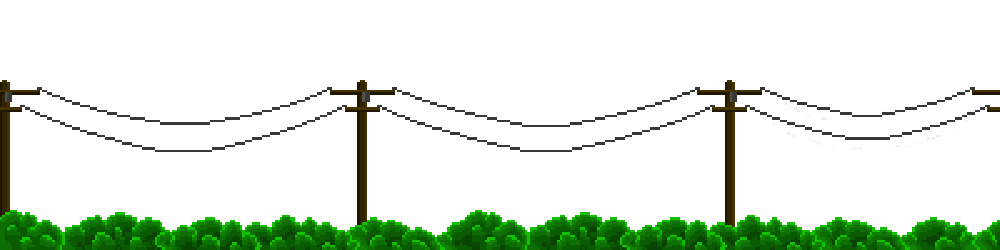
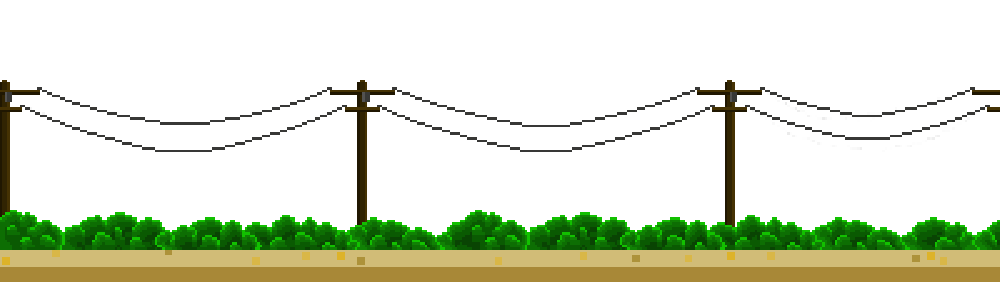
Classes can now be used to give paths different images.
Also fixed a SVG parser bug where it didn't store the last line.

diff --git a/BrokenBonez/app/src/main/java/com/dragonfruitstudios/brokenbonez/Game/LevelInfo.java b/BrokenBonez/app/src/main/java/com/dragonfruitstudios/brokenbonez/Game/LevelInfo.java
@@ -16,6 +16,7 @@ import junit.framework.Assert;
 
 import org.w3c.dom.Document;
 import org.w3c.dom.Element;
+import org.w3c.dom.NamedNodeMap;
 import org.w3c.dom.Node;
 import org.w3c.dom.NodeList;
 import org.xml.sax.SAXException;
@@ -23,8 +24,10 @@ import org.xml.sax.SAXException;
 import java.io.File;
 import java.io.IOException;
 import java.lang.reflect.Array;
+import java.security.InvalidParameterException;
 import java.util.ArrayList;
 import java.util.Arrays;
+import java.util.HashMap;
 
 import javax.xml.parsers.DocumentBuilder;
 import javax.xml.parsers.DocumentBuilderFactory;
@@ -39,6 +42,11 @@ public class LevelInfo {
     public String surfacePath; // Path to the image which is drawn for the bike to ride on.
     public String groundPath; // Path to the image which can be drawn below surface.
     public ArrayList<SolidLayer> solids;
+    // Specifies the assets to use for a specific solidLayer class.
+    private HashMap<String,SolidLayer.Info> slAssets;
+
+
+    public enum AssetType {Surface, Fill, Transparent}
 
     /**
      * This is a layer that the Bike will collide with (and ride over).
@@ -47,27 +55,13 @@ public class LevelInfo {
         // This maps directly to Polygon.lines and determines what image should be drawn over each
         // line.
         private ArrayList<AssetKey> assetKeys;
-        private String fillKey; // The key of the image used to fill the layer.
+        private String theClass;
 
         private SolidLayer(Polygon polygon) {
             super(polygon.getLines());
         }
 
-        public static SolidLayer createRect(VectorF pos, float width, float height,
-                                            String top, String left, String right, String bottom,
-                                            String fill) {
-            SolidLayer result = new SolidLayer(new Rect(pos, width, height));
-            result.assetKeys = new ArrayList<AssetKey>();
-            result.assetKeys.add(new AssetKey(top, 0, 0));
-            result.assetKeys.add(new AssetKey(left, 3, 3));
-            result.assetKeys.add(new AssetKey(right, 1, 1));
-            result.assetKeys.add(new AssetKey(bottom, 2, 2));
-            result.fillKey = fill;
-            return result;
-        }
-
-        public static SolidLayer createPolygon(ArrayList<Line> lines, AssetKey[] assetKeys,
-                                               String fillKey) {
+        public static SolidLayer createPolygon(ArrayList<Line> lines, AssetKey[] assetKeys) {
             SolidLayer result = new SolidLayer(new Polygon(lines));
             result.assetKeys = new ArrayList<AssetKey>();
             for (AssetKey ak : assetKeys) {
@@ -75,27 +69,43 @@ public class LevelInfo {
                     result.assetKeys.add(ak);
                 }
             }
-            result.fillKey = fillKey;
             return result;
         }
 
-        public String getAssetKey(int i) {
-            return assetKeys.get(i).key;
-        }
-
-        public String getFillKey() {
-            return fillKey;
+        public AssetType getAssetType(int i) {
+            return assetKeys.get(i).assetType;
         }
 
         static class AssetKey {
-            String key;
+            AssetType assetType;
             int indexStart;
             int indexEnd;
 
-            AssetKey(String key, int indexStart, int indexEnd) {
-                this.key = key;
+            AssetKey(AssetType assetType, int indexStart, int indexEnd) {
+                this.assetType = assetType;
                 this.indexStart = indexStart;
                 this.indexEnd = indexEnd;
+            }
+        }
+
+        /**
+         * Stores information about a specific SolidLayer class' asset keys.
+         *
+         * Note: This is just a simple class that stores some information about asset keys,
+         * hence its fields are public.
+         */
+        public static class Info {
+            public String theClass;
+            public String surfaceKey;
+            public String fillKey;
+
+            public VectorF surfaceOffset;
+
+            Info(String theClass, String surfaceKey, String fillKey) {
+                this.theClass = theClass;
+                this.surfaceKey = surfaceKey;
+                this.fillKey = fillKey;
+                surfaceOffset = new VectorF(0, 0);
             }
         }
     }
@@ -150,10 +160,11 @@ public class LevelInfo {
         this.groundPath = groundPath;
         this.layers = new ArrayList<Layer>();
         this.solids = new ArrayList<SolidLayer>();
+        this.slAssets = new HashMap<String,SolidLayer.Info>();
     }
 
     public void loadAssets(AssetLoader loader) {
-        loader.AddAssets(new String[] {getSurfaceKey()});
+        loader.AddAssets(new String[]{getSurfaceKey()});
         loader.AddAssets(new String[] {getGroundKey()});
         // Add the background layer's assets.
         for (Layer l : layers) {
@@ -163,15 +174,30 @@ public class LevelInfo {
         for (SolidLayer sl : solids) {
             // TODO: UGH. An `addAsset` method is desperately needed.
             for (SolidLayer.AssetKey ak : sl.assetKeys) {
-                if (!ak.key.equals(getTransparentKey())) {
-                    loader.AddAssets(new String[]{ak.key});
+                if (ak.assetType != AssetType.Transparent) {
+                    loader.AddAssets(new String[]{getSolidLayerKey(sl, ak.assetType)});
                 }
             }
         }
     }
 
+    public void addInfo(String theClass, String surfaceKey, String fillKey) {
+        slAssets.put(theClass, new SolidLayer.Info(theClass, surfaceKey, fillKey));
+    }
+
+    public void addInfo(String theClass, String surfaceKey, String fillKey,
+                        VectorF surfaceOffset) {
+        addInfo(theClass, surfaceKey, fillKey);
+        slAssets.get(theClass).surfaceOffset = surfaceOffset;
+    }
+
+
     private String getLevelPath() {
         return "levels/" + name + "/";
+    }
+
+    public String getImagePath(String name) {
+        return getLevelPath() + name;
     }
 
     public String getLayerKey(Layer layer) {
@@ -188,6 +214,27 @@ public class LevelInfo {
 
     public String getTransparentKey() {
         return "";
+    }
+
+    public String getSolidLayerKey(SolidLayer sl, AssetType assetType) {
+        if (!slAssets.containsKey(sl.theClass)) {
+            throw new RuntimeException("Couldn't find SL's class in LevelInfo's assets: " +
+                    sl.theClass);
+        }
+        switch (assetType) {
+            case Fill:
+                return slAssets.get(sl.theClass).fillKey;
+            case Surface:
+                return slAssets.get(sl.theClass).surfaceKey;
+            case Transparent:
+                return getTransparentKey();
+            default:
+                throw new InvalidParameterException("AssetType not implemented: " + assetType);
+        }
+    }
+
+    public SolidLayer.Info getSolidLayerInfo(SolidLayer sl) {
+        return slAssets.get(sl.theClass);
     }
 
     public float calcGroundHeight(AssetLoader loader, int height) {
@@ -215,7 +262,8 @@ public class LevelInfo {
     private ArrayList<Line> parsePath(String path, VectorF pos) {
         // Spec for 'C' here: https://www.w3.org/TR/SVG/paths.html#PathDataCubicBezierCommands
         // Only `curveto` is supported as that's all that GIMP generates.
-        // Yep, I wrote a custom parser for this.
+        // Yep, I know I probably could have found some library to parse the SVG for me, but
+        // parsing manually is more fun.
         ArrayList<Line> result = new ArrayList<>();
         int i = 0;
 
@@ -303,6 +351,14 @@ public class LevelInfo {
             i++;
         }
 
+        // Add the last line.
+        if (coords[0].length() > 0) {
+            VectorF end = new VectorF(Float.valueOf(coords[0]) + pos.x,
+                    Float.valueOf(coords[1]) + pos.y);
+            Assert.assertTrue("Found line which starts and ends in the same place.",
+                    end.subtracted(currentPoint).magnitude() != 0);
+            result.add(new Line(currentPoint.copy(), end));
+        }
         return result;
     }
 
@@ -324,11 +380,12 @@ public class LevelInfo {
             Element doc = dom.getDocumentElement();
             NodeList elements = doc.getElementsByTagName("path");
             for (int i = 0; i < elements.getLength(); i++) {
-                Node d = elements.item(i).getAttributes().getNamedItem("d");
+                NamedNodeMap attrs = elements.item(i).getAttributes();
+                Node d = attrs.getNamedItem("d");
                 ArrayList<Line> lines = parsePath(d.getNodeValue(), pos);
                 // Assume all the lines in path are surface paths.
-                SolidLayer.AssetKey surfaceKey = new SolidLayer.AssetKey(getSurfaceKey(), 0,
-                        lines.size()-1);
+                SolidLayer.AssetKey surfaceKey = new SolidLayer.AssetKey(
+                        AssetType.Surface, 0, lines.size()-1);
 
                 // TODO: Quick way to close the Polygon.
                 Line left = new Line(lines.get(0).getStart().copy(),
@@ -341,10 +398,14 @@ public class LevelInfo {
                 lines.add(left);
                 SolidLayer.AssetKey[] keys = new SolidLayer.AssetKey[] {
                         surfaceKey,
-                        new SolidLayer.AssetKey(getTransparentKey(), surfaceKey.indexEnd+1,
-                                surfaceKey.indexEnd+4)
+                        new SolidLayer.AssetKey(AssetType.Transparent,
+                                surfaceKey.indexEnd+1, surfaceKey.indexEnd+4)
                 };
-                solids.add(SolidLayer.createPolygon(lines, keys, getGroundKey()));
+                SolidLayer newLayer = SolidLayer.createPolygon(lines, keys);
+                solids.add(newLayer);
+
+                // Set the SolidLayer's id.
+                newLayer.theClass = attrs.getNamedItem("class").getNodeValue();
             }
         }
         catch (ParserConfigurationException | IOException | SAXException exc) {

diff --git a/BrokenBonez/app/src/main/java/com/dragonfruitstudios/brokenbonez/Gameplay/GameLevel.java b/BrokenBonez/app/src/main/java/com/dragonfruitstudios/brokenbonez/Gameplay/GameLevel.java
@@ -55,23 +55,14 @@ public class GameLevel extends Level {
         //info.layers.add(new LevelInfo.Layer("ground.png", 1f, 1f, 0f,
         //        GameView.ImageOrigin.BottomLeft));
 
-        //info.solids.add(LevelInfo.SolidLayer.createRect(new VectorF(0, 410), 200, 1000,
-        //        info.getSurfaceKey(), info.getTransparentKey(), info.getTransparentKey(),
-        //        info.getTransparentKey(), info.getGroundKey()));
-
+        // Load the SVG file which defines the level's geometry.
         info.loadSVG(state.getAssetLoader(), "level1.svg", new VectorF(0, 0));
 
-        /*ArrayList<Line> lines = new ArrayList<Line>();
-        ArrayList<String> keys = new ArrayList<String>();
-        lines.add(new Line(200, 410, 215, 440));
-        keys.add(info.getSurfaceKey());
-        lines.add(new Line(215, 440, 250, 460));
-        keys.add(info.getSurfaceKey());
-        lines.add(new Line(250, 460, 295, 475));
-        keys.add(info.getSurfaceKey());
-        lines.add(new Line(295, 475, 300, 480));
-        keys.add(info.getSurfaceKey());
-        info.solids.add(LevelInfo.SolidLayer.createPolygon(lines, keys, info.getGroundKey()));*/
+        // Initialise the SolidLayer class asset keys.
+        info.addInfo("plain", info.getSurfaceKey(), info.getGroundKey(),
+                new VectorF(0, -5));
+        info.addInfo("bushes", info.getImagePath("bushes.png"), info.getGroundKey(),
+                new VectorF(0, -260));
 
         // Load bitmaps defined in LevelInfo.
         info.loadAssets(state.getAssetLoader());
@@ -222,19 +213,28 @@ public class GameLevel extends Level {
     }
 
     private void drawSolidLayer(LevelInfo.SolidLayer sl, GameView gameView) {
-
         // Draw the SolidLayer's fill image.
-        gameView.fillPolygon(getAssetLoader().getBitmapByName(sl.getFillKey()), sl);
+        String fillKey = info.getSolidLayerKey(sl, LevelInfo.AssetType.Fill);
+        Bitmap fillImage = getAssetLoader().getBitmapByName(fillKey);
+        gameView.fillPolygon(fillImage, sl);
 
 
         int surfaceOffset = 0;
         // Draw the image beneath each line.
         for (int i = 0; i < sl.getLines().size(); i++) {
-            String assetKey = sl.getAssetKey(i);
+            LevelInfo.SolidLayer.Info classInfo = info.getSolidLayerInfo(sl);
+            LevelInfo.AssetType assetType = sl.getAssetType(i);
+            String assetKey = info.getSolidLayerKey(sl, assetType);
             // Don't draw if key is transparent.
             if (!assetKey.equals(info.getTransparentKey())) {
                 Bitmap asset = getAssetLoader().getBitmapByName(assetKey);
-                Line line = sl.getLines().get(i);
+                Line line = sl.getLines().get(i).copy();
+
+                if (assetType == LevelInfo.AssetType.Surface) {
+                    // Translate the SolidLayer Line by the surface offset.
+                    line.getStart().add(classInfo.surfaceOffset);
+                    line.getFinish().add(classInfo.surfaceOffset);
+                }
 
                 // Determine whether a gap needs to be filled between solid surface layers.
                 float angleDiff = calcAngleDiff(sl, i);

diff --git a/BrokenBonez/app/src/main/java/com/dragonfruitstudios/brokenbonez/Math/Collisions/Line.java b/BrokenBonez/app/src/main/java/com/dragonfruitstudios/brokenbonez/Math/Collisions/Line.java
@@ -148,7 +148,7 @@ public class Line extends Intersector implements Drawable {
     }
 
     public Line copy() {
-        return new Line(start, end);
+        return new Line(start.copy(), end.copy());
     }
 
     private void rotateCoord(VectorF coord, float ang, VectorF pos) {
